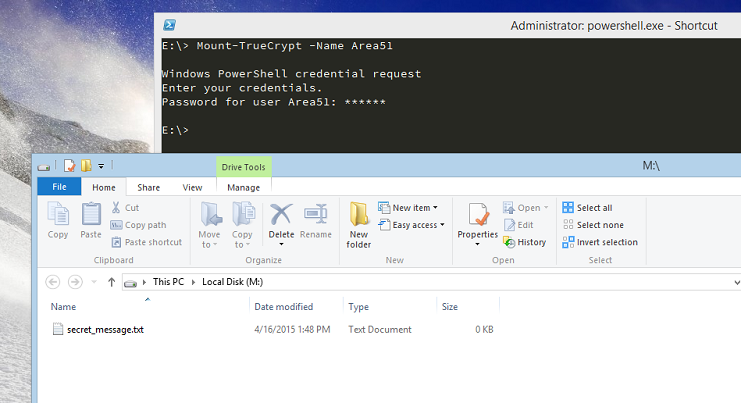
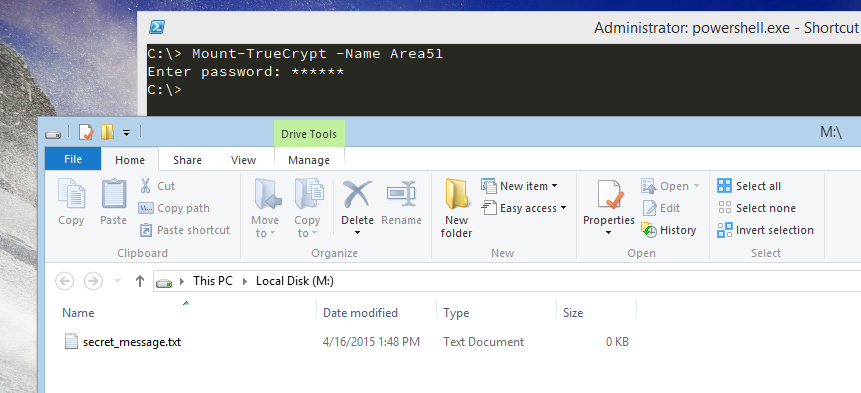
Updated screenshot and README

diff --git a/README.md b/README.md
@@ -9,9 +9,11 @@ Dismount-TrueCrypt supports force dismounting of all TrueCrypt containers.
 
 ## Instructions
 * Download project to your PowerShell Module directory.  Or if PsGet is installed run the following command:
-	
-	Install-Module PSTrueCrypt
-	
+
+```
+Install-Module PSTrueCrypt
+```
+
 * Copy-and-paste PSTrueCrypt-Config.Sample.xml file, rename it to 'PSTrueCrypt-Config'.
 * Mount TrueCrypt container
 ![screenshot of mounting TrueCrypt container](screenshot_1.png)
